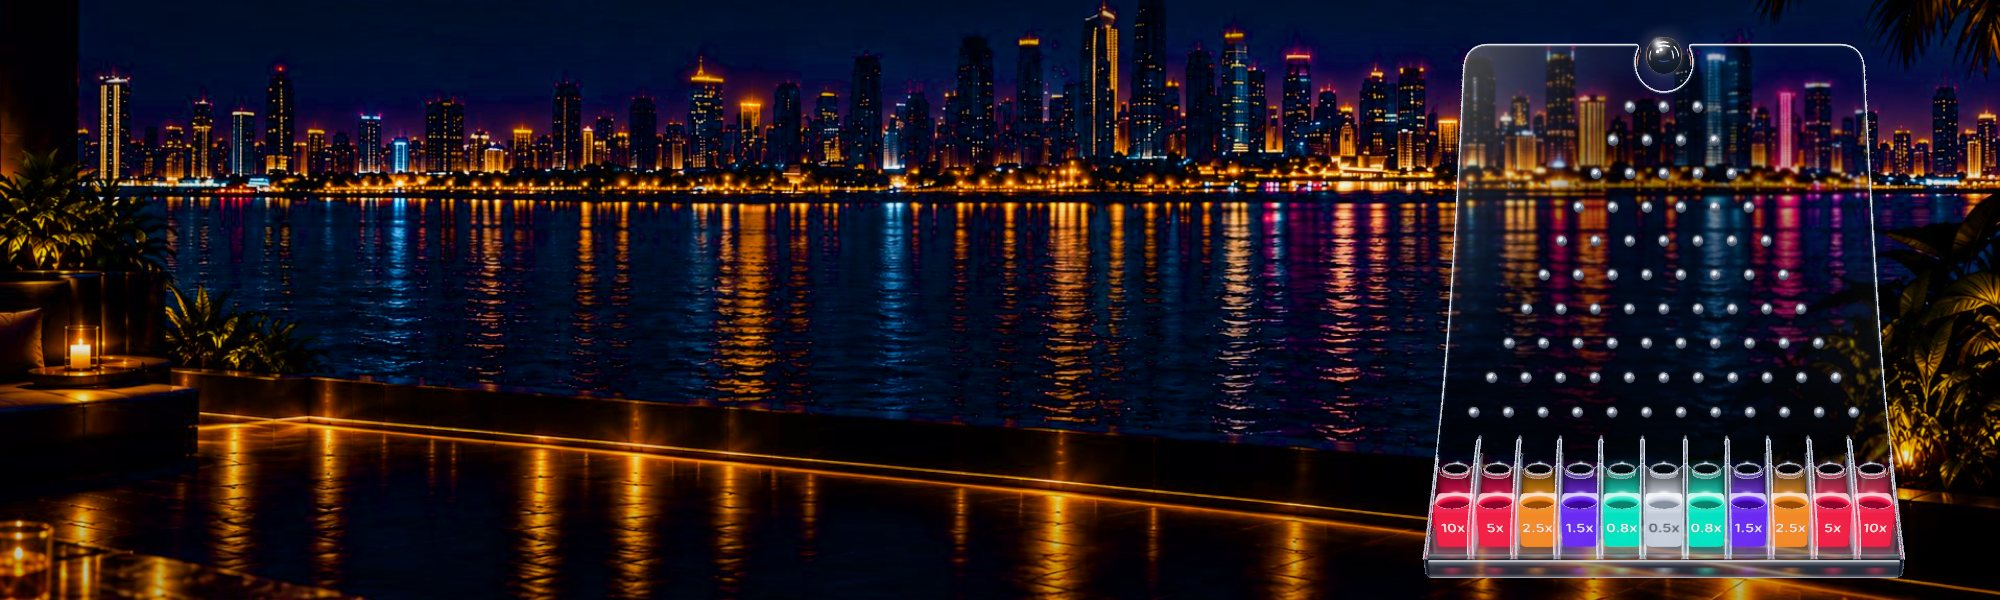
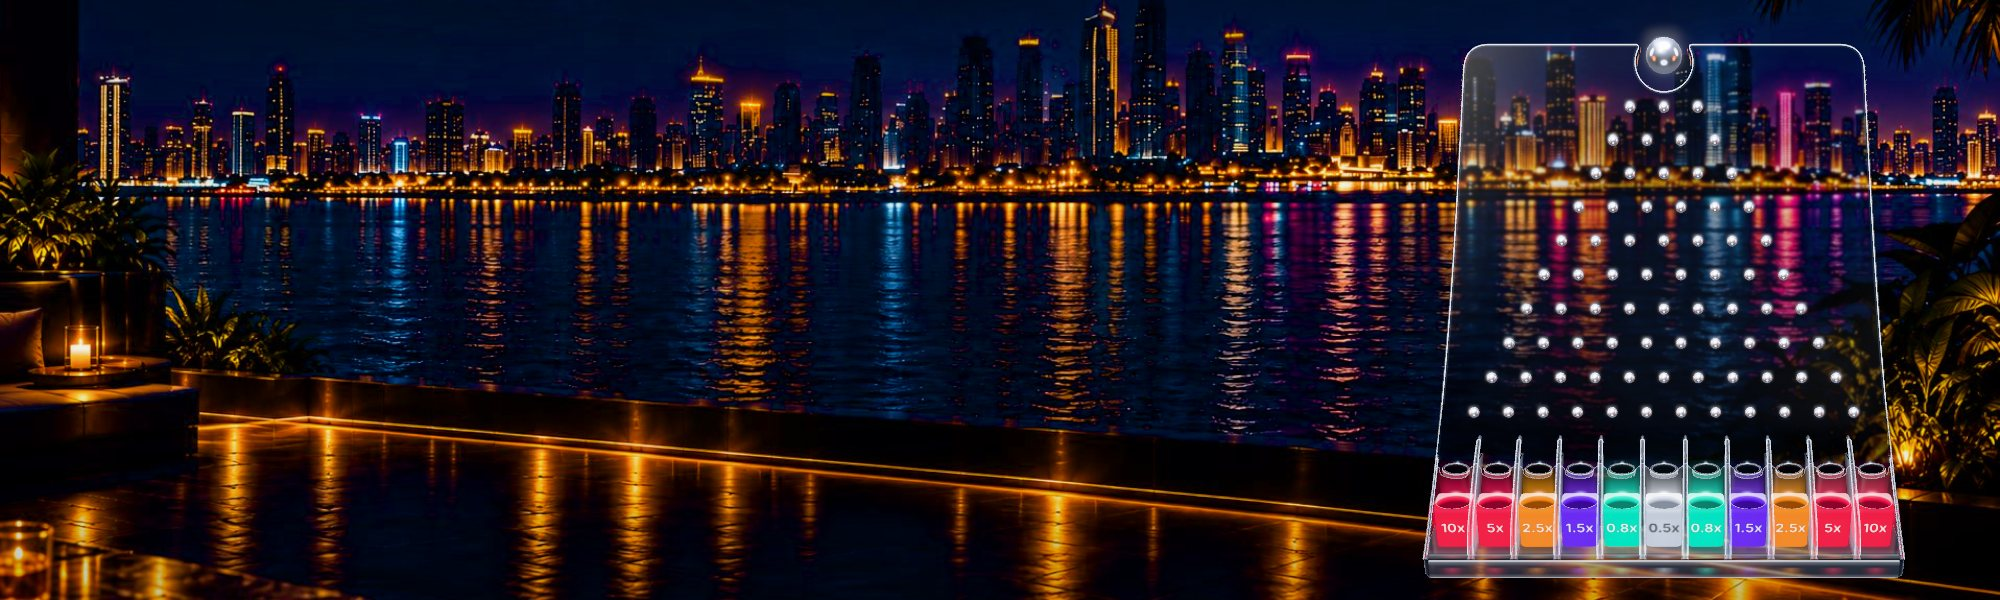
Give the Plinko pegs and ball their own chrome studio and thin the peg-field dimming at the sides

Changed region(s): [[0.744, 0.15, 0.93, 0.69], [0.806, 0.03, 0.868, 0.12]]

diff --git a/games/plinko/web/js/board/pane.js b/games/plinko/web/js/board/pane.js
@@ -25,7 +25,7 @@ import {
 
 // The bent acrylic pane with its pegs and the ball waiting in the top notch. Pegs and
 // the waiting ball live in `upper`, a frame aligned with the leaning part of the pane.
-export function buildPane(kit) {
+export function buildPane(kit, chromeEnvironment) {
   const { T, scene } = kit
   const shape = paneOutline(T)
   const upper = leaningFrame(T)
@@ -35,8 +35,8 @@ export function buildPane(kit) {
   addSheen(kit, shape)
   addRim(kit, shape)
 
-  const chrome = new T.MeshStandardMaterial({ color: 0xffffff, metalness: 1, roughness: 0.07, envMapIntensity: 2.8 })
-  const pegs = addPegs(kit, upper)
+  const chrome = new T.MeshStandardMaterial({ color: 0xffffff, metalness: 1, roughness: 0.17, envMap: chromeEnvironment, envMapIntensity: 1 })
+  const pegs = addPegs(kit, upper, chrome)
   const waitingBall = addWaitingBall(kit, upper, chrome)
 
   return { upper, pegs, waitingBall, chrome }
@@ -168,7 +168,8 @@ function addSheen(kit, shape) {
 }
 
 // Dark glass over the trapezoid the pegs span, half a spacing past the outer pegs and
-// feathered over one more. The sheen's UVs carry the flat pane position.
+// feathered over one more, thinning toward its sides so the city still shows there. The
+// sheen's UVs carry the flat pane position.
 function pegFieldDim(T) {
   return new T.ShaderMaterial({
     transparent: true,
@@ -183,7 +184,7 @@ function pegFieldDim(T) {
       const float SPACING = ${PEG_SPACING.toFixed(4)}, ROW_HEIGHT = ${ROW_HEIGHT.toFixed(4)};
       const float ROW_TOP = ${ROW_TOP.toFixed(4)}, ROW_BOTTOM = ${ROW_BOTTOM.toFixed(4)};
       const float BAY = ${BAY_HALF_WIDTH.toFixed(4)}, PANE_TOP = ${TOP.toFixed(4)};
-      const float PAD = SPACING * .5, FEATHER = SPACING, DIM = .5;
+      const float PAD = SPACING * .5, FEATHER = SPACING, DIM = .42;
       varying vec2 vUv;
       void main() {
         float x = abs(vUv.x * 2. - 1.) * BAY;
@@ -192,7 +193,8 @@ function pegFieldDim(T) {
         float slope = .5 * SPACING / ROW_HEIGHT;
         float side = (x - halfWidth - PAD) / sqrt(1. + slope * slope);
         float d = max(side, max(y - ROW_TOP - PAD, ROW_BOTTOM - PAD - y));
-        gl_FragColor = vec4(vec3(.001, .002, .004), DIM * (1. - smoothstep(0., FEATHER, d)));
+        float across = smoothstep(.35, 1., x / (halfWidth + PAD));
+        gl_FragColor = vec4(vec3(.001, .002, .004), DIM * (1. - .7 * across) * (1. - smoothstep(0., FEATHER, d)));
       }`,
   })
 }
@@ -251,18 +253,10 @@ function addRim(kit, shape) {
 
 // Row r holds r + 3 pegs. Each peg keeps a hidden glow that lights when the ball hits it;
 // the returned map is keyed "row-index".
-function addPegs(kit, upper) {
+function addPegs(kit, upper, chrome) {
   const { T } = kit
   const scale = PEG_RADIUS / 0.17
   const geometry = new T.SphereGeometry(PEG_RADIUS, 32, 20)
-  const material = new T.MeshStandardMaterial({
-    color: 0xe8eef6,
-    metalness: 0.85,
-    roughness: 0.16,
-    envMapIntensity: 3.4,
-    emissive: 0x5a6474,
-    emissiveIntensity: 0.55,
-  })
   const shadowGeometry = new T.PlaneGeometry(0.46 * scale, 0.46 * scale)
   const shadowMaterial = new T.MeshBasicMaterial({ map: kit.shadowTexture, transparent: true, opacity: 0.6, depthWrite: false })
 
@@ -273,7 +267,7 @@ function addPegs(kit, upper) {
       const x = (index - (count - 1) / 2) * PEG_SPACING
       const y = ROW_TOP - row * ROW_HEIGHT
 
-      const peg = new T.Mesh(geometry, material)
+      const peg = new T.Mesh(geometry, chrome)
       peg.position.set(x, y, FACE + PEG_RADIUS * 0.85)
       upper.add(peg)
 

diff --git a/games/plinko/web/js/board.js b/games/plinko/web/js/board.js
@@ -68,7 +68,7 @@ export const board = {
     const kit = createKit(T, this.scene)
     this.background = createBackground(kit, () => this.fit())
     this.pulses = { value: new Array(SLOTS).fill(0) }
-    const pane = buildPane(kit)
+    const pane = buildPane(kit, chromeStudio(T, this.renderer, PITCH))
     this.upper = pane.upper
     this.pegs = pane.pegs
     this.waitingBall = pane.waitingBall
@@ -309,6 +309,53 @@ function studioLighting(T, renderer) {
   strip(2, 26, 30, 10, -8, 0xffffff, 4)
   strip(44, 5, 0, -6, -32, 0xffb070, 1.6)
   strip(40, 3, 0, -14, 30, 0x5d86ff, 0.6)
+  return new T.PMREMGenerator(renderer).fromScene(studio, 0.02).texture
+}
+
+// The studio the polished steel reflects, laid out in the camera's frame (x right, y up,
+// z toward the camera) and turned by its pitch: a soft cap overhead, a window on each
+// side, a warm lamp low on each side, a cool bounce below, and a shaded waist.
+function chromeStudio(T, renderer, pitch) {
+  const studio = new T.Scene()
+  studio.add(
+    new T.Mesh(
+      new T.SphereGeometry(50, 64, 32),
+      new T.ShaderMaterial({
+        side: T.BackSide,
+        uniforms: { pitch: { value: pitch } },
+        vertexShader: `
+          varying vec3 vDir;
+          void main() {
+            vDir = normalize(position);
+            gl_Position = projectionMatrix * modelViewMatrix * vec4(position, 1.);
+          }`,
+        fragmentShader: `
+          uniform float pitch;
+          varying vec3 vDir;
+          void main() {
+            float c = cos(pitch), s = sin(pitch);
+            vec3 d = vec3(vDir.x, vDir.y * c + vDir.z * s, -vDir.y * s + vDir.z * c);
+            vec3 cool = vec3(.48, .57, .8);
+            float level = .07 + .42 * smoothstep(.05, .85, d.y) + .22 * smoothstep(-.25, -.9, d.y) + .45 * smoothstep(-.25, -.95, d.z);
+            level *= 1. - .7 * smoothstep(.4, .95, d.z) * (1. - smoothstep(.1, .5, d.y));
+            gl_FragColor = vec4(cool * level, 1.);
+          }`,
+      }),
+    ),
+  )
+  const turn = new T.Euler(-pitch, 0, 0)
+  const add = (geometry, x, y, z, color, intensity) => {
+    const mesh = new T.Mesh(geometry, new T.MeshBasicMaterial({ color: new T.Color(color).multiplyScalar(intensity), side: T.DoubleSide }))
+    mesh.position.set(x, y, z).applyEuler(turn)
+    mesh.lookAt(0, 0, 0)
+    studio.add(mesh)
+  }
+  add(new T.CircleGeometry(22, 48), 0, 34, 24, 0xffffff, 4.5)
+  add(new T.PlaneGeometry(10, 20), -42, 12, 4, 0xf2f6ff, 5)
+  add(new T.PlaneGeometry(10, 20), 42, 12, 4, 0xf2f6ff, 5)
+  add(new T.CircleGeometry(4.6, 32), -38, -14, 12, 0xff9636, 8)
+  add(new T.CircleGeometry(4.6, 32), 38, -14, 12, 0xff9636, 8)
+  add(new T.CircleGeometry(11, 32), 0, -36, 22, 0xe2ecff, 4)
   return new T.PMREMGenerator(renderer).fromScene(studio, 0.02).texture
 }
 

diff --git a/games/plinko/web/js/board/background.js b/games/plinko/web/js/board/background.js
@@ -28,7 +28,7 @@ vec3 backgroundAt(vec2 q) {
   }
   c *= 1. - shade(1. - q.y);
   vec2 p = (q - vec2(.5, .58)) / vec2(.55, .6);
-  c *= 1. - smoothstep(.45, 1., length(p)) * .2;
+  c *= 1. - smoothstep(.6, 1.2, length(p)) * .08;
   return c;
 }
 `

diff --git a/docs/games/plinko-runtime.md b/docs/games/plinko-runtime.md
@@ -110,9 +110,15 @@ one's width. The tall photo paints the left tagline on its pillar, so the frame'
 tagline stands down while it shows. Mipmaps keep desktop downscaling clean.
 
 The city stays bright: a light shade at the top behind the title row and at the bottom
-behind the bet panel, a soft vignette, and a slight saturation lift. On the pane, only the
-peg field is dimmed, half a peg spacing past the outer pegs and feathered over one more,
-so the rest of the glass shows the city clear.
+behind the bet panel, a faint vignette at the far edges, and a slight saturation lift. On
+the pane, only the peg field is dimmed, half a peg spacing past the outer pegs and
+feathered over one more, and the dimming thins toward its left and right sides, so the
+rest of the glass shows the city clear.
+
+The pegs and the ball are one polished chrome. It reflects a studio of its own, laid out
+around the camera's view: a broad soft cap overhead, a white window on each side, a warm
+lamp low on each side, a cool spot below, a shaded waist, and a bright rim. The glass and
+the cups keep the board's general studio.
 
 ### Art
 
